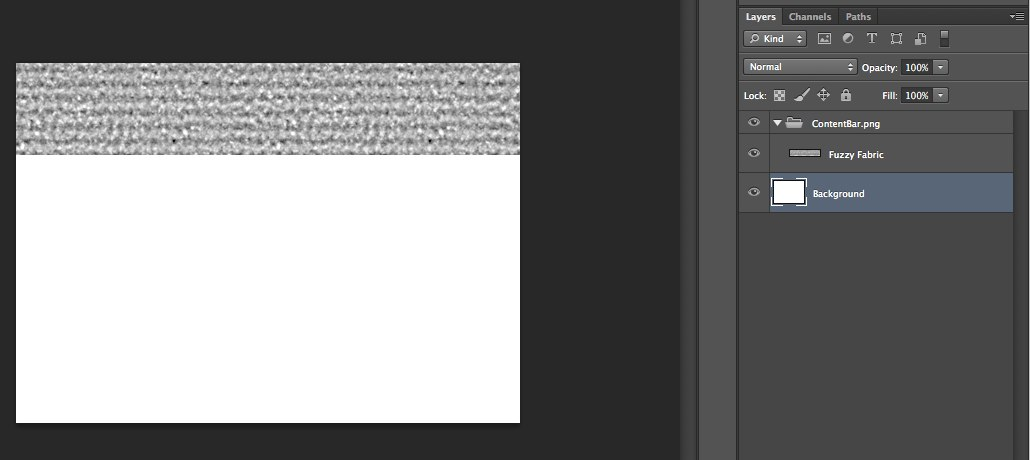
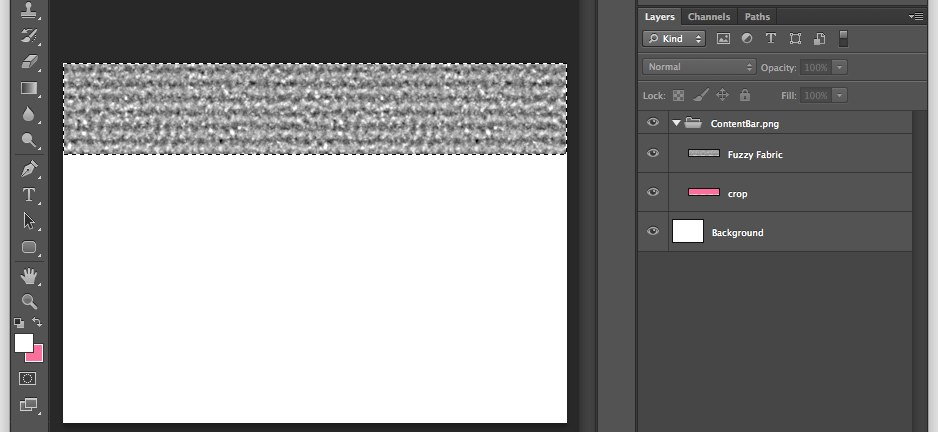
removed the comments from the jsx since they won't be accurate. Updated the Bar Example image to include the crop layer

diff --git a/Super Export.jsx b/Super Export.jsx
@@ -1,167 +1,4 @@
-/**
-
-Super Export.jsx
-  by: Josh Wright
-  company: Bendy Tree, LLC (http://www.bendytree.com)
-  created: July 30, 2011
-  repo: https://github.com/bendytree/Photoshop-Scripts
-  
-  
-This is a Photoshop script that lets you save parts of a PSD as separate,
-cropped files by carefully naming the Photoshop layers.
-
-For installation instructions or for other scripts by Bendy Tree, see:
-https://github.com/bendytree/Photoshop-Scripts
-
-
-
-THE PROBLEM IT SOLVES
-
-With software design I always have one large PSD that looks like a screenshot.
-Inside that PSD I'll have a logo, a page background, a navigation menu, buttons
-with on/off states, etc.
-
-This lets me design everything in the context of the whole screen, but it's
-annoyingly redundant to save each graphic out individually. Say I want to save
-the logo out separately - I have to crop it, hide the background & some other
-layers, select "Save As...", find the format from a drop down, & type in the
-logo's name.
-
-
-HOW IT WORKS
-
-I'm working on a new iPhone app with a music control bar.  This bar has a
-background, back button, play/pause button, and a next button (see image below).
-It appears simple, but it ends up being 13 separate images (26 if you count
-retina/non-retina).
-
-[img: StatusBarExplosion.jpg]
-
-It's a huge pain to export all these images out, but not when I use the "Super
-Export" script.  By following a few conventions when naming the Photoshop layers,
-I'm able to easily export all 13 images by pressing [F5] (& non-retina versions
-if I wanted to).
-
-
-A BASIC EXAMPLE
-
-First let's check out the background for the control bar.  I want to save out
-the background of the whole control bar, so I name a folder (layer set)
-"ControlBar.png" and put all of the background layers inside that layer.  When
-I run this script (by pressing F5), it sees that I named this layer like an
-image so it hides the other layers & saves this one as ControlBar.png.
-
-[img: BarExample.jpg]
-
-You may have noticed the 'crop' layer. For me, it's very common to crop the
-image before I save a particular part.  In this example, the control bar is
-the full width of the iPhone app, but it is only part of the height so I need
-to crop it before saving it.
-
-So to make sure it's cropped, I create a layer called 'crop' and put it in my
-"ControlBar.png folder". Then I select a rectangle and fill it with any color
-(I like pink).  You can hide it or change it's transparency to any value. I
-typically hide it.  If you don't include a 'crop' layer then the full size of
-the screen will be saved.
-
-
-
-A TAGGING EXAMPLE
-
-Occasionally you'll have buttons or menu items that have different states. For
-example, if they mouse over then the button lights up.  Or maybe it has a
-disabled state.
-
-For example, my back button has 3 states: active, normal, and disabled. They
-should all have some common elements like the shadow and the same crop since
-I'll swap them out on the app.  Ultimately, I want three images to be saved:
-back_normal.png, back_active.png, and back_disabled.png.
-
-To achieve this, first I name the whole folder (layer set) "back_{0}.png".
-It looks cryptic, but it just means that I have tagged some layers that should
-be swapped out for "{0}".  In my case, I've tagged a layers "active", "normal",
-and "disabled".
-
-[img: BackExample.jpg]
-
-How do you tag a layer?  Easy, you just add a dash after the layer name, then
-write out the tags for that layer (comma separated).
-
-The script hides all tagged layers except "normal" and saves it as
-"back_normal.png".  Then hides all tagged layers except "active" and saves it
-as "back_active.png". And so on.
-
-
-COMPLEX TAGGING
-
-It's very rare that you need complex tagging, but this script is like gold
-when you finally need it.
-
-My play/pause button is deceptively complicated.  It can either look like a
-pause button or a play button and each of those needs to have a normal, active,
-and disabled state.  They all share the same crop and shadow, so it's very
-annoying to have to re-save all those combinations.
-
-So here's how I name all the layers to make this happen automatically:
-
-[img: PPExample.jpg]
-
-The whole folder is named "{type}Button_{state}.png" because I have have two
-types of tags - a "type" (play or pause) and a "state" (normal, active, or
-disabled).  I want every combination of those to be saved.
-
-Tagging looks a bit uglier.  Here's the format:
-"[Whatever You Want] - [Tag Type]:[Tag]"
-
-In my example, I have one folder for each of the states.  Then you can see
-that the "normal" state layer has a layer tagged as Pause, a layer tagged as
-Play, and a BG (no tags).  In other words, you can tag layers that are deep
-into the tree structure.
-
-
-
-OTHER FEATURES
-
-There are a few other nice features you might want to take advantage of. 
-
-
-RETINA
-
-If you're an iPhone developer, you know the annoyance of saving a retina 
-version and a non-retina.  This script takes the stance that you design
-for @2x, then resize to the smaller version.
-
-To make this happen, just add @2x in your file name (the layer name) and
-a non @2x version is generated automatically.
-
-For example, you might name a layer "Background@2x.png" which would create
-two files: "Background@2x.png" and another one (half the size) that's
-called "Background.png".
-
-
-PREVIEW ONLY
-
-Sometimes I'll have 'lorem ipsum' type text to help my imagination while I'm
-designing, but I don't want those layers to be shown when I save everything.
-Just add a "#" to the layer name, and this script will automatically hide it.
-
-
-FILE TYPES
-
-My examples here were with PNGs, but JPG file types are supported as well.
-It'd be trivial to support more, but I haven't had the need yet.  You can
-even include a quality parameter for jpg (since it's lossy) by using:
-q:[Your Quality Here]
-
-Qualities can be stated in three ways:
-0.0 - 1.0: a decimal where 1 is full quality
-2 - 12: an integer where 12 is full quality (Photoshop's preferred way)
-13 - 100: an integer where 100 is full quality
-
-**/
-
-
-(function(){
+(function(){
 
     var doc =  app.activeDocument;    
     app.preferences.rulerUnits = Units.PIXELS;
